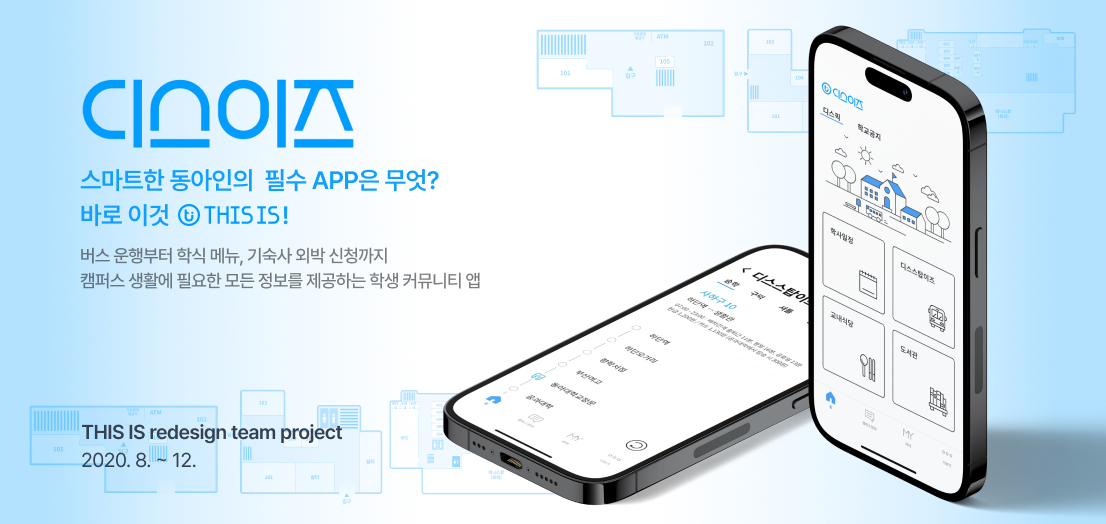
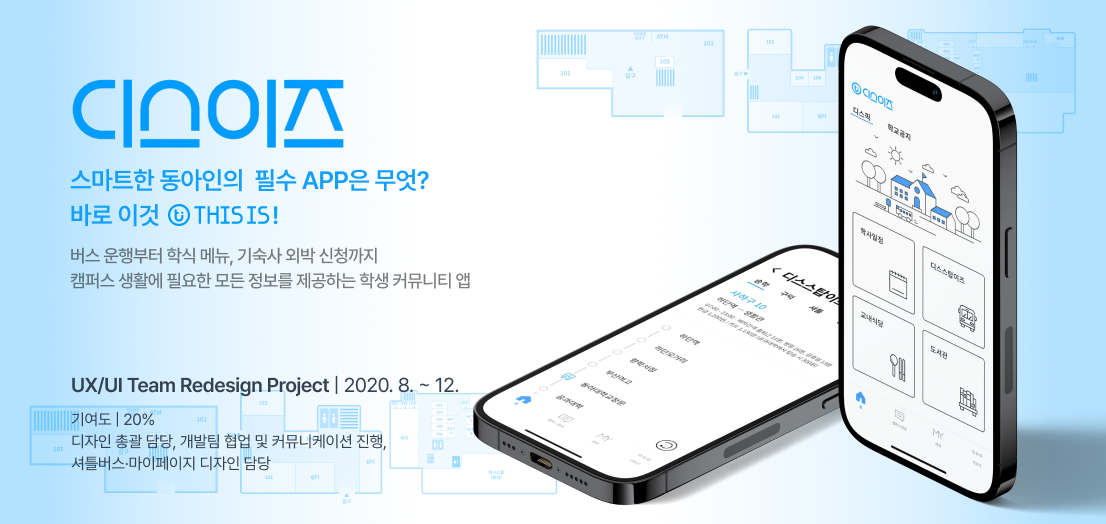
0520

diff --git a/index.html b/index.html
@@ -368,7 +368,7 @@
               <div class="wc_words">
                 <dl>
                   <dt>TOURZY 앱·웹 UXUI 리뉴얼</dt>
-                  <dd>기업 실무형 팀프로젝트</dd>
+                  <dd>기업 실무형 팀프로젝트 (기여도 | 25%)</dd>
                 </dl>
 
                 <div class="btn">
@@ -542,7 +542,7 @@
                       </div>
                     </a>
                   </div>
-                  <p>청년농부 영농일지 서비스 앱 UXUI 디자인</p>
+                  <p>청년농부 영농일지 서비스 앱 UX/UI 디자인</p>
                 </div>
                 <!-- <div class="swiper-slide  works_container" data-aos="fade-up" data-aos-delay="600">
                   <span>팀 프로젝트</span>
@@ -569,7 +569,7 @@
                   <p>사시사찰 템플스테이 예약 서비스 앱 UXUI 디자인</p>
                 </div> -->
                 <div class="swiper-slide  works_container" data-aos="fade-up" data-aos-delay="600">
-                  <span>팀 프로젝트</span>
+                  <span>팀 프로젝트 (기여도 | 20%)</span>
                   <div class="works_item">
                     <a href="#" class="img-wrapper">
                       <img src="img/main/cp_6_thisis.png" alt="디스이즈">
@@ -578,7 +578,7 @@
                       </div>
                     </a>
                   </div>
-                  <p>디스이즈 교내 앱 UXUI 리디자인</p>
+                  <p>디스이즈 교내 앱 UX/UI 리디자인</p>
                 </div>
 
                 <div class="works_container empty">
@@ -622,7 +622,7 @@
                 </ul>
                 <ul class="gnb">
                   <li><a href="#uxui">WEB</a></li>
-                  <li><a href="#app">UXUI</a></li>
+                  <li><a href="#app">UX/UI</a></li>
                   <li><a href="#team">TEAM PROJECT</a></li>
                   <li><a href="#cafe24">CAFE24</a></li>
                   <li><a href="#graphic">GRAPHIC</a></li>
